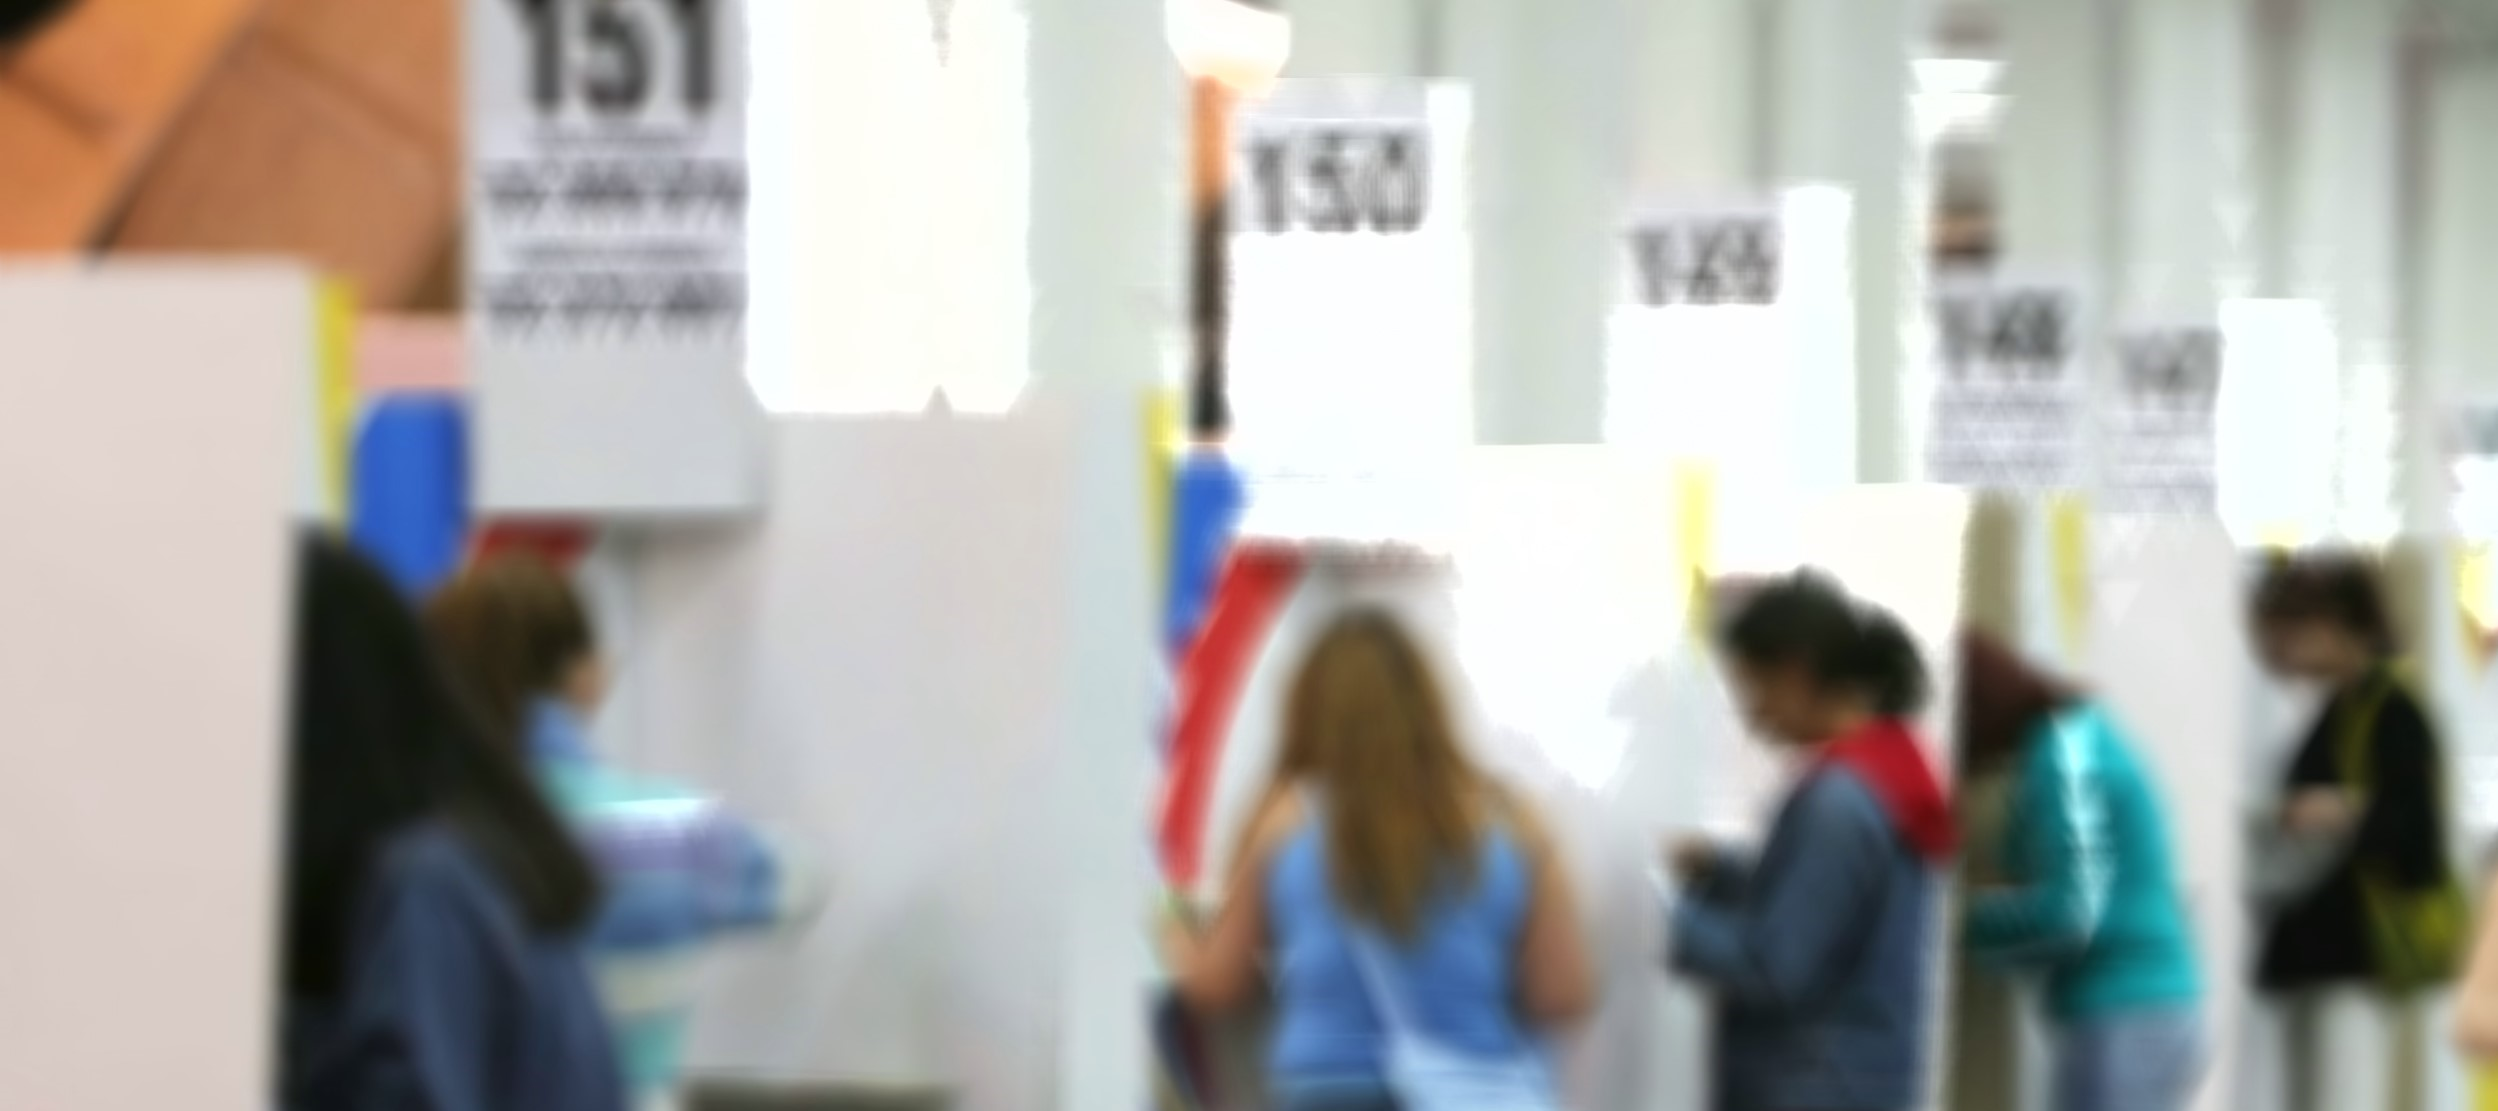
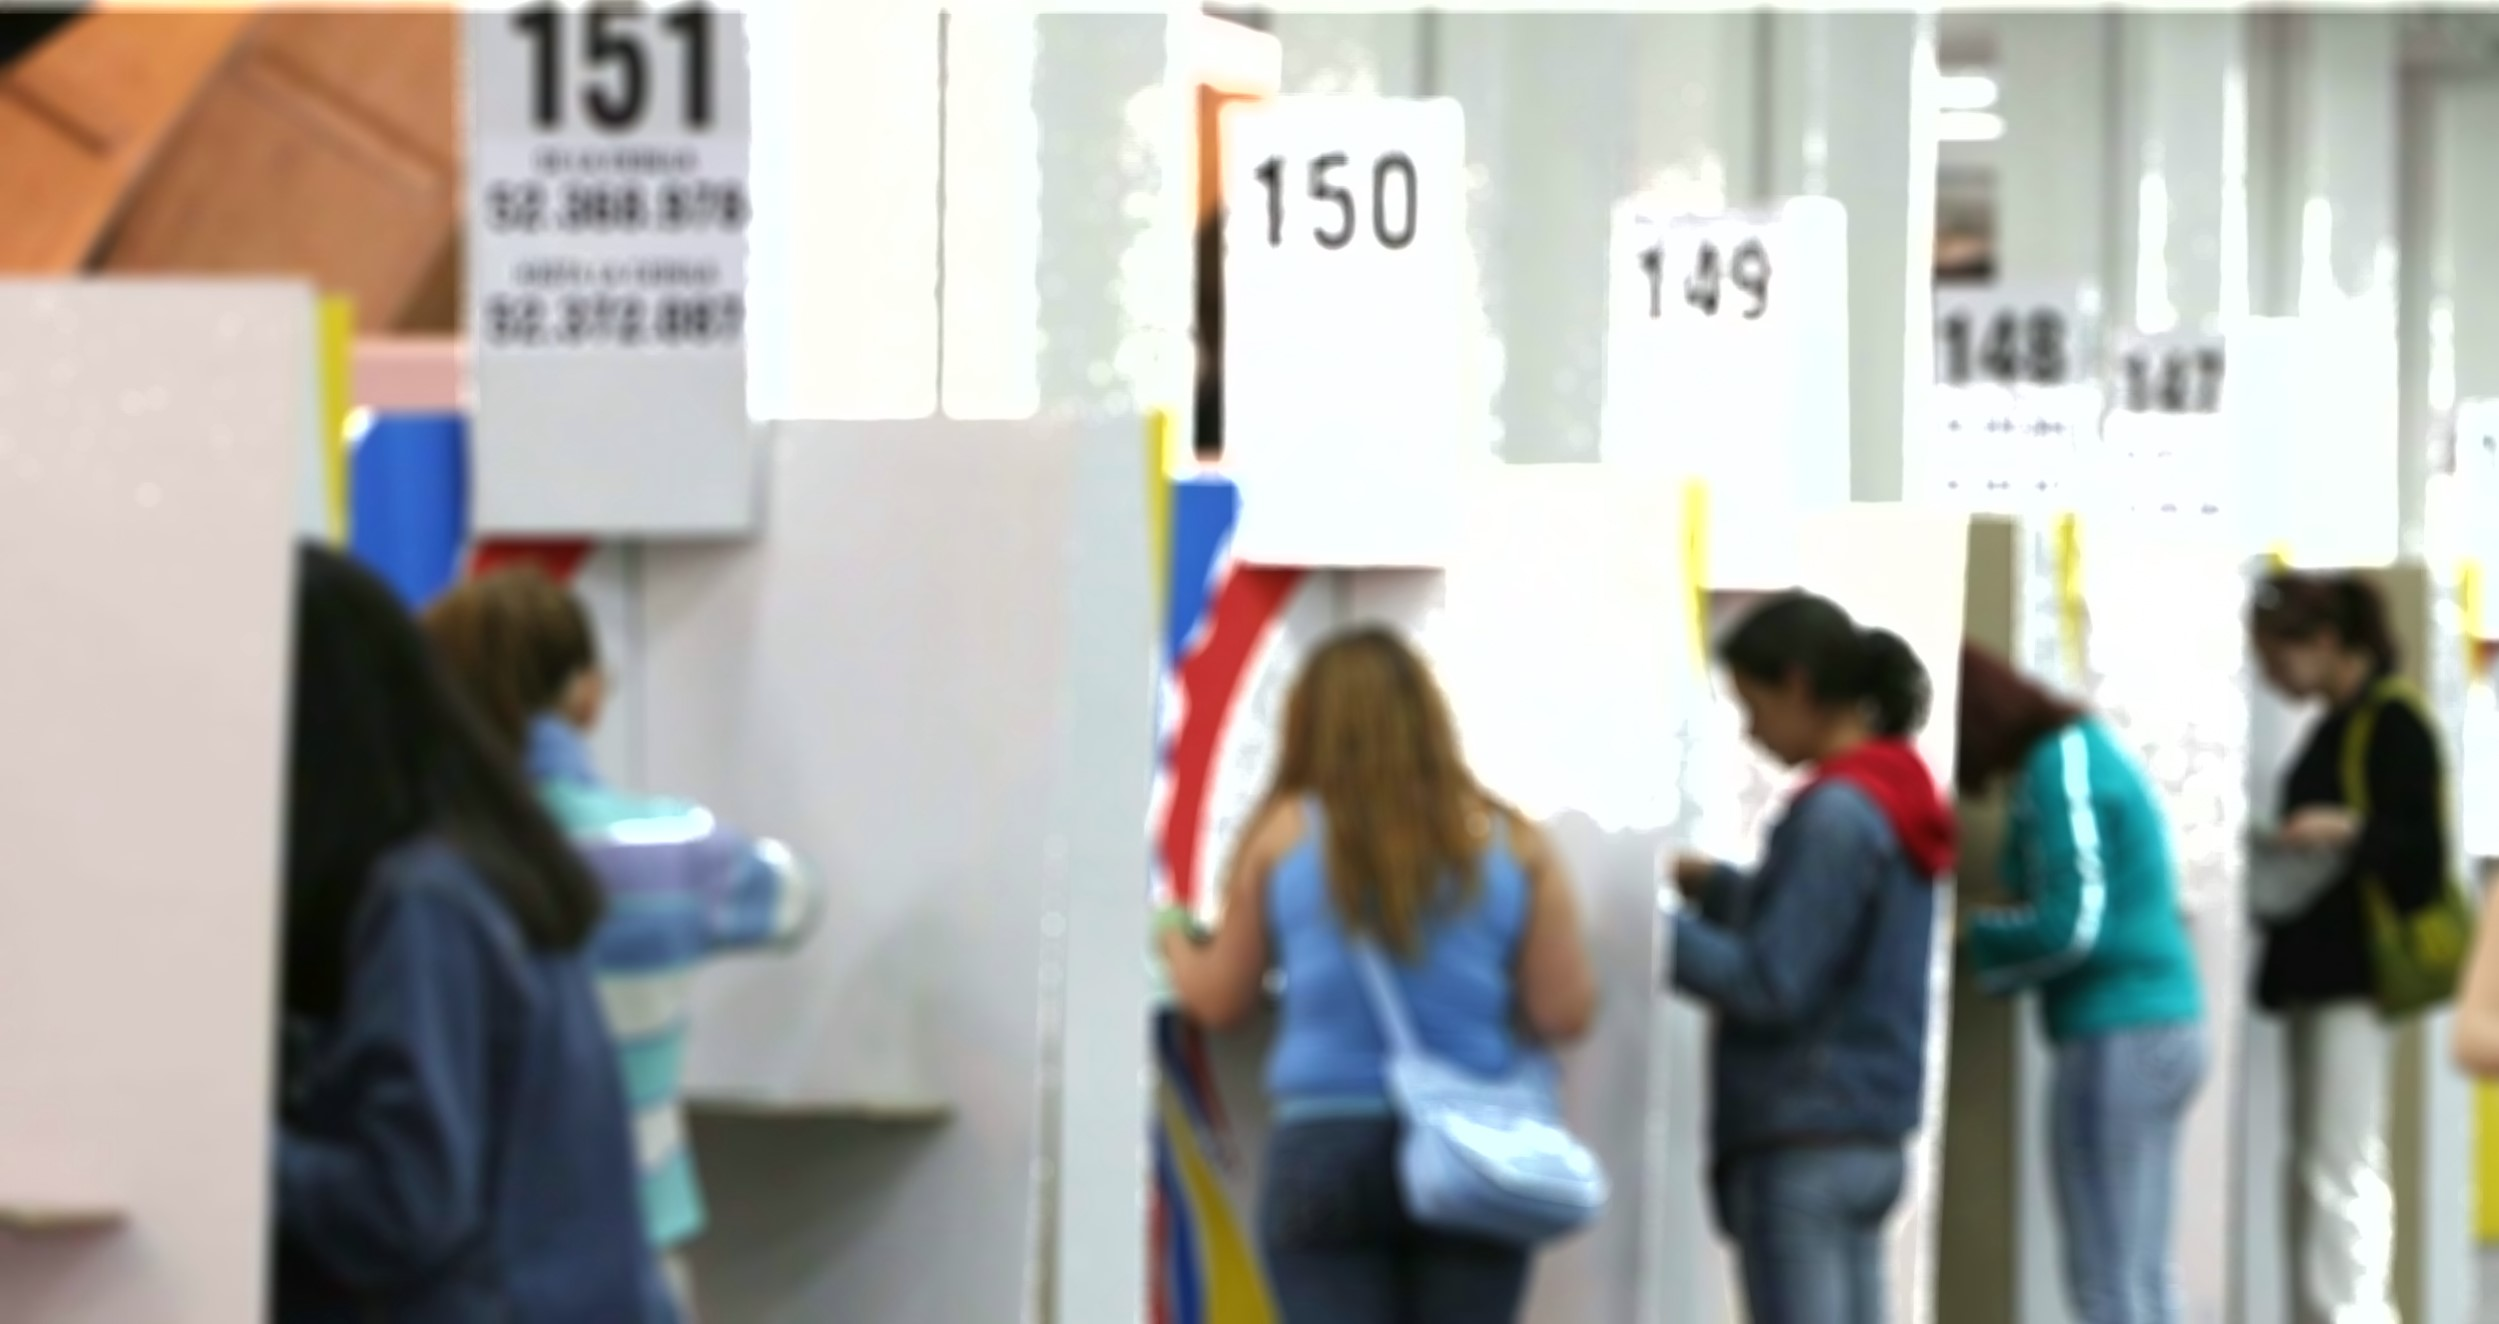
nuevo background

diff --git a/pages/Administrador.html b/pages/Administrador.html
@@ -30,9 +30,9 @@
 </ul>
 <nav>
   <div class="nav-wrapper blue darken-2">
-    <a href="#!" class="brand-logo">&nbsp;&nbsp; <i class="fas fa-unlock-alt"></i>  SISTEMA DE VOTACIONES - ADMIN</a>
+    <a href="#!" class="brand-logo">&nbsp;&nbsp; <i class="fas fa-fire"></i>  SISTEMA DE VOTACIONES - ADMIN</a>
     <ul class="right hide-on-med-and-down">
-      <li><a href="#!">VER LISTADO DE VOTANTES</a></li>
+      <li><a href="#!"><i class="fas fa-list-ul"></i> VER LISTADO DE VOTANTES</a></li>
       
       
       <!-- Dropdown Trigger -->
@@ -46,7 +46,7 @@
     <div class="col s12 m5 l10">
       
     <div class="black-text hide-on-med-and-down">
-    <h3 class="left"> &nbsp LISTADO DE VOTANTES</h3>
+    <h3 class="left"> &nbsp <i class="fas fa-list-ul"></i> LISTADO DE VOTANTES</h3>
     </div>
   </div>
   <div class="col s12 m5 l2 z-depth-4 pink ">
@@ -126,7 +126,7 @@
             </tr>
               <tr>
                 <td>7</td>
-                <td>1083004036</td>
+                <td>2083004036</td>
                 <td><input type="text" id="row-7-primerapellido" name="row-1-primerapellido" value="BARRERA"></td>
                 <td><input type="text" id="row-7-segundoapellido" name="row-1-segundoapellido" value="SALCHIPAPA"></td>
                 <td><input type="text" id="row-7-nombres" name="row-1-nombres" value="DIANA"></td>
@@ -181,15 +181,15 @@
 		<div class="container">
 			<div class="row">
 				<div class="col s12 m6 l6">
-					<h5>Sistemas de Votaciones 2018</h5>
+					<h5> <i class="fas fa-fire"></i> Sistema de Votaciones 2018</h5>
 					<p style="font-weight: 200;"><big>Modulo de administradores</big></p>
 				</div>
 				<div class="col hide-on-small-only l2"></div>
 				<div class="col s12 m6 l4" style="line-height: 2;">
 					<h5>Developer</h5>
-          <a class="grey-text text-lighten-2" href="https://github.com/ibanb04"><i class="fab fa-github fa-2x"></i> My Gith</a>
+                <a class="grey-text text-lighten-2" href="https://www.facebook.com/ibanb04"><i class="fab fa-facebook fa-2x"></i>  Ivan Bettin</a>
           <br>
-            		<a class="grey-text text-lighten-2" href="https://www.facebook.com/ibanb04"><i class="fab fa-facebook fa-2x"></i>  Ivan Bettin</a>
+          <a class="grey-text text-lighten-2" href="https://github.com/ibanb04"><i class="fab fa-github fa-2x"></i> My Gith</a>
             		
 				</div>
 			</div>

diff --git a/index.html b/index.html
@@ -23,7 +23,7 @@
      		<br>
 					<center>
 						<div class="white-text hide-on-med-and-down" >
-							<h3 class="grey-text lighten-4 tlt"><i>Bienvenido </i></h3>
+							<h3 class="grey-text lighten-4 tlt"><i> Bienvenido </i></h3>
 							<h1 class="white-text tlt">SISTEMA</h1>
 							<h2 class="white-text tlt">DE</h2>
 							<h2 class="white-text tlt">ADMINISTRADOR</h2>
@@ -42,7 +42,7 @@
         	<br>
           <div class="card hoverable" style="background-color: rgba(255,255,255,.9);">
             <div class="card-content center">
-              <div class="center-align"><b>LOGIN</b></div>
+              <div class="center-align"><b><i class="fas fa-fire"></i> LOGIN</b></div>
               <!-- <form action=""> -->
                 <div class="input-field">
                   <input type="number" name="cedula" id="cedula" required="required">
@@ -85,7 +85,7 @@
 		<div class="container">
 			<div class="row">
 				<div class="col s12 m6 l6">
-					<h5>Sistemas de Votaciones 2018</h5>
+					<h5> <i class="fas fa-fire"></i> Sistema de Votaciones 2018</h5>
 					<p style="font-weight: 200;"><big>Modulo de administradores</big></p>
 				</div>
 				<div class="col hide-on-small-only l2"></div>

diff --git a/js/myscript.js b/js/myscript.js
@@ -21,11 +21,11 @@ function login(){
 
 Reloj();
 function Reloj() {
-var tiempo = new Date();
-var hora = tiempo.getHours();
-var minuto = tiempo.getMinutes();
-var segundo = tiempo.getSeconds();
-document.getElementById('hora').innerHTML = hora;
+	var tiempo = new Date();
+	var hora = tiempo.getHours();
+	var minuto = tiempo.getMinutes();
+	var segundo = tiempo.getSeconds();
+	document.getElementById('hora').innerHTML = hora;
 document.getElementById('minuto').innerHTML = minuto;
 document.getElementById('segundo').innerHTML = segundo;
 setTimeout('Reloj()', 1000);

diff --git a/css/estilos.css b/css/estilos.css
@@ -6,7 +6,7 @@
 	
 }
 section{
-background-image: url("../images/background.jpg");
+background-image: url("../images/fondo.jpeg");
 	background-repeat: no-repeat;	
 	background-size: 100% auto;
 	width: 100%;
